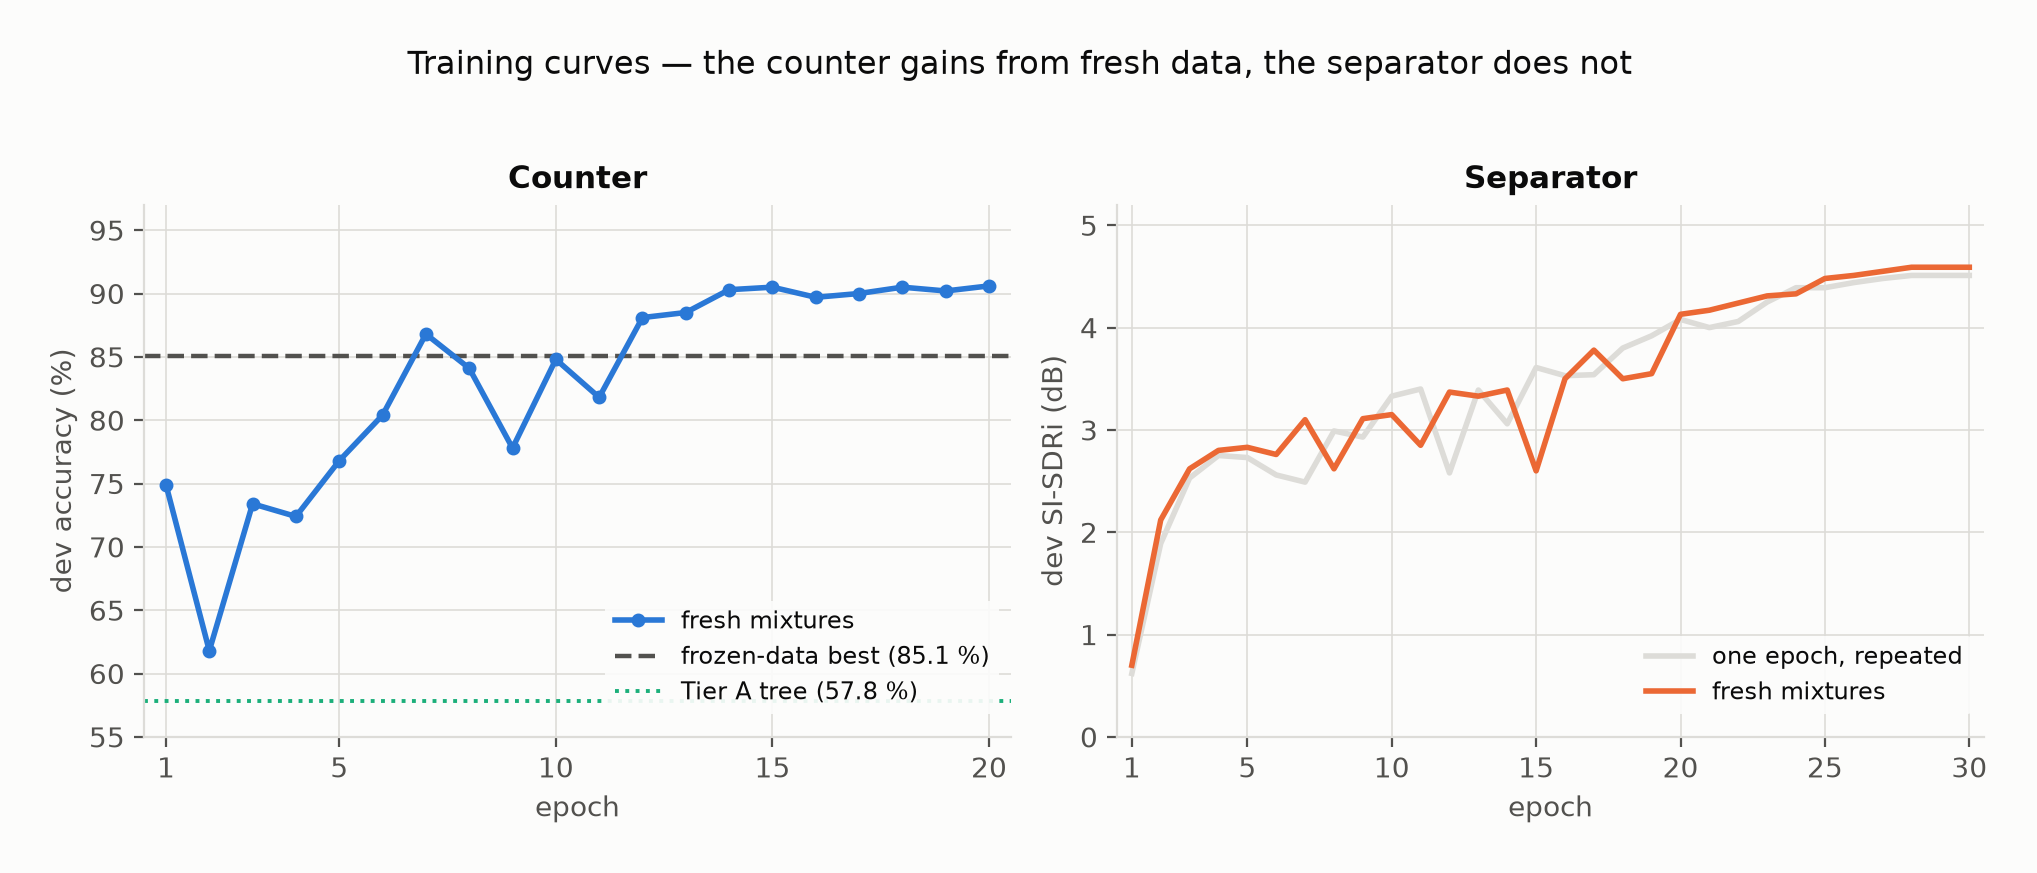
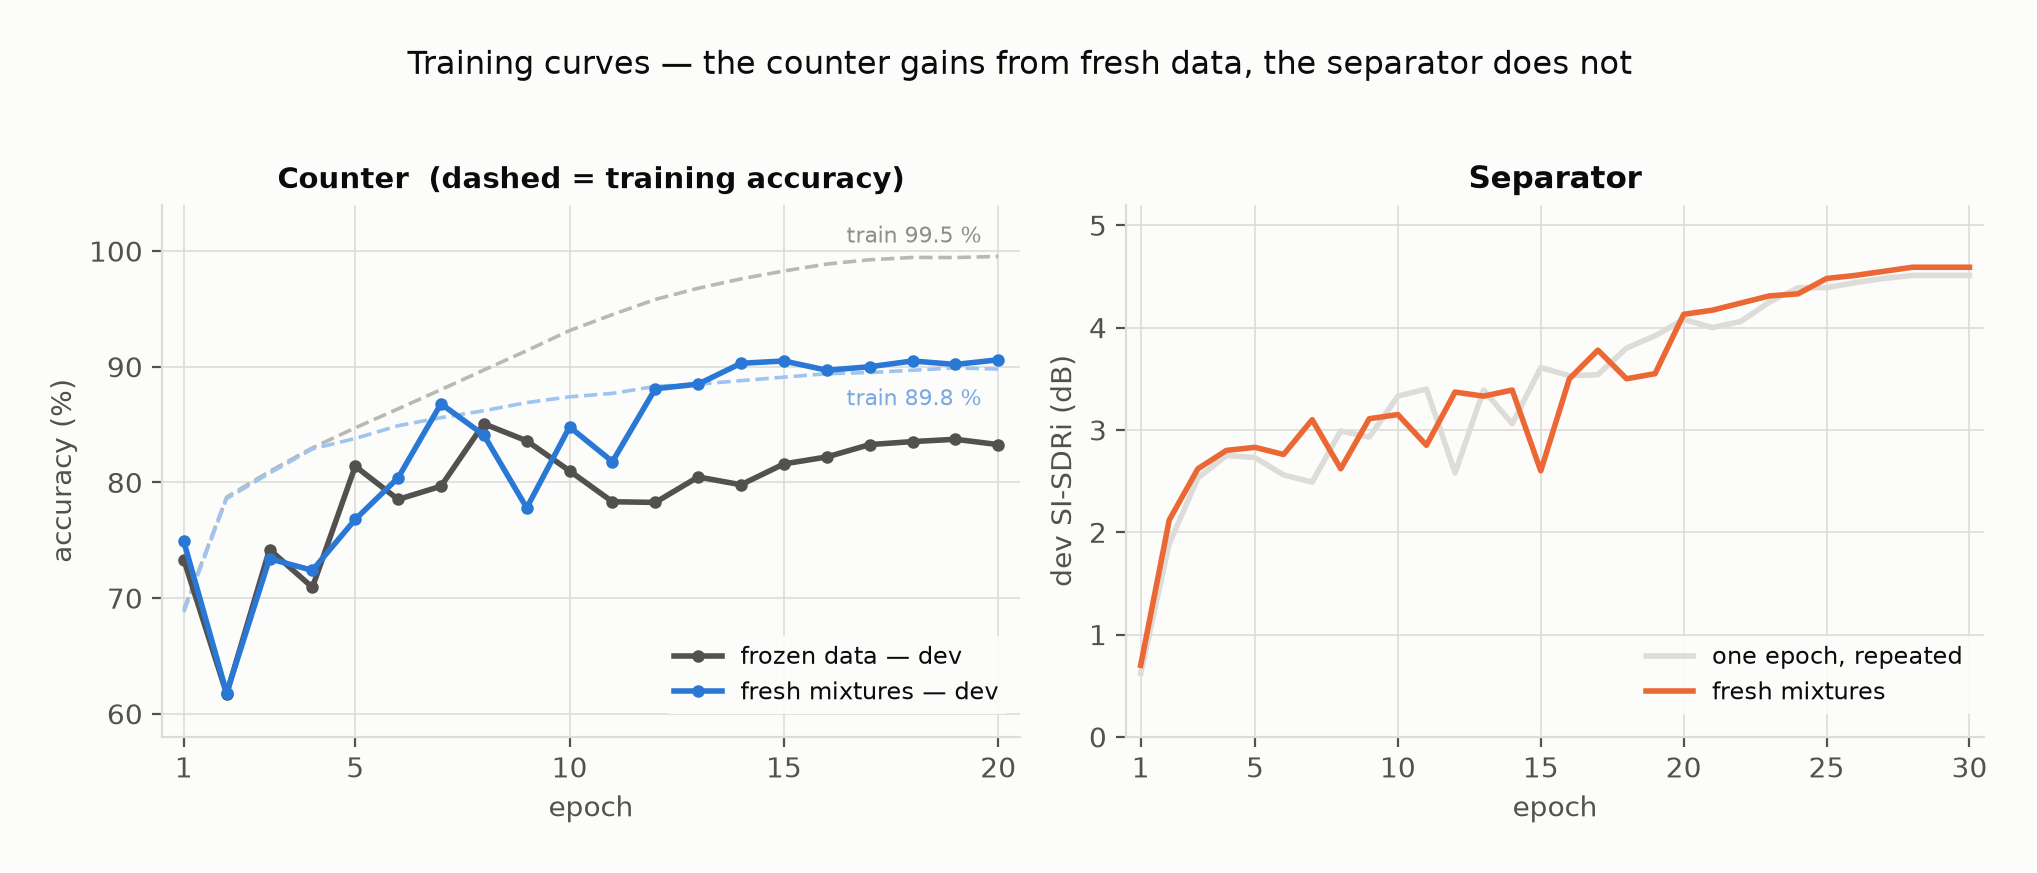
A plain-language overview, and the frozen-data curve the figures were missing
OVERVIEW.md explains the project to someone who has not seen the code: what the
task is, where the audio comes from, why there are two models rather than one,
what the numbers mean, how to run it, and the four things the report has to be
honest about. No jargon that is not defined on the spot.

Figure 5 previously showed the frozen-data counter as a single horizontal
reference line, because only epochs 1-3 and 16-20 of that run survived in the
logs. That run's train_report.json turned up, so both runs now plot in full,
training accuracy included as a dashed pair. The two training curves are
indistinguishable for eight epochs and then separate: the frozen-data run climbs
to 99.54 % while its dev score stalls near 83 %, and the fresh-mixture run's
training and dev curves converge around 90 % instead. That divergence is the
memorisation, visible rather than asserted.

RESULTS.md now carries the exact values from eval_report.json rather than the
rounded ones read off the console -- 91.07 % with Wilson [89.52, 92.41], MAE
0.0893, SI-SDRi +4.630 dB, P-SI-SNR +3.810 dB, and per-class recall to two
decimals.

diff --git a/report/make_figures.py b/report/make_figures.py
@@ -65,9 +65,16 @@ SEP_FRESH = [0.70, 2.12, 2.62, 2.80, 2.83, 2.76, 3.10, 2.62, 3.11, 3.15,
              2.85, 3.37, 3.33, 3.39, 2.60, 3.50, 3.78, 3.50, 3.55, 4.13,
              4.17, 4.24, 4.31, 4.33, 4.48, 4.51, 4.55, 4.59, 4.59, 4.59]
 
-CNT_FRESH = [74.9, 61.8, 73.4, 72.4, 76.8, 80.4, 86.8, 84.1, 77.8, 84.8,
-             81.8, 88.1, 88.5, 90.3, 90.5, 89.7, 90.0, 90.5, 90.2, 90.6]
-CNT_FROZEN_BEST = 85.1        # full curve not in the retained logs -- see report/README.md
+# Counter, both runs. Validation and training accuracy per epoch (%).
+# Frozen-data figures read from that run's train_report.json (code_version 6de9a43).
+CNT_FRESH_VAL = [74.9, 61.8, 73.4, 72.4, 76.8, 80.4, 86.8, 84.1, 77.8, 84.8,
+                 81.8, 88.1, 88.5, 90.3, 90.5, 89.7, 90.0, 90.5, 90.2, 90.6]
+CNT_FRESH_TRAIN = [68.8, 78.6, 80.8, 82.9, 83.8, 84.9, 85.6, 86.2, 86.9, 87.4,
+                   87.7, 88.3, 88.5, 88.8, 89.1, 89.4, 89.5, 89.7, 89.9, 89.8]
+CNT_FROZEN_VAL = [73.33, 61.73, 74.20, 70.93, 81.40, 78.53, 79.67, 85.07, 83.60, 81.00,
+                  78.33, 78.27, 80.47, 79.80, 81.60, 82.20, 83.27, 83.53, 83.73, 83.27]
+CNT_FROZEN_TRAIN = [68.99, 78.73, 80.95, 82.99, 84.72, 86.36, 88.02, 89.72, 91.39, 93.13,
+                    94.51, 95.82, 96.79, 97.60, 98.28, 98.88, 99.25, 99.45, 99.44, 99.54]
 
 MASK_N = [2, 3, 4, 5]
 MASK_OVERLAP = [0.151, 0.211, 0.234, 0.266]
@@ -190,16 +197,26 @@ def fig_ablation():
 def fig_training():
     fig, axes = plt.subplots(1, 2, figsize=(10.0, 3.9))
 
+    # Training accuracy is the dashed pair. The two runs are indistinguishable for eight
+    # epochs, then the frozen-data run climbs to 99.5 % while its validation stalls: that
+    # divergence IS the memorisation, and it is the reason the fix was worth making.
+    ep = range(1, 21)
     ax = axes[0]
-    ax.plot(range(1, 21), CNT_FRESH, linewidth=2, color=BLUE, marker="o", markersize=4,
-            label="fresh mixtures", zorder=3)
-    ax.axhline(CNT_FROZEN_BEST, linewidth=1.6, linestyle="--", color=INK2,
-               label=f"frozen-data best ({CNT_FROZEN_BEST:.1f} %)")
-    ax.axhline(57.8, linewidth=1.4, linestyle=":", color=AQUA, label="Tier A tree (57.8 %)")
-    ax.set_xlabel("epoch"); ax.set_ylabel("dev accuracy (%)")
-    ax.set_ylim(55, 97); ax.set_xlim(0.5, 20.5)
+    ax.plot(ep, CNT_FROZEN_TRAIN, linewidth=1.3, linestyle="--", color="#b9b8b2", zorder=2)
+    ax.plot(ep, CNT_FRESH_TRAIN, linewidth=1.3, linestyle="--", color="#9fc4f0", zorder=2)
+    ax.plot(ep, CNT_FROZEN_VAL, linewidth=2, color=INK2, marker="o", markersize=3.5,
+            label="frozen data — dev", zorder=3)
+    ax.plot(ep, CNT_FRESH_VAL, linewidth=2, color=BLUE, marker="o", markersize=3.5,
+            label="fresh mixtures — dev", zorder=4)
+    ax.annotate("train 99.5 %", (20, CNT_FROZEN_TRAIN[-1]), textcoords="offset points",
+                xytext=(-6, 5), ha="right", fontsize=8, color="#8f8e88")
+    ax.annotate("train 89.8 %", (20, CNT_FRESH_TRAIN[-1]), textcoords="offset points",
+                xytext=(-6, -13), ha="right", fontsize=8, color="#7aa9e0")
+    ax.set_xlabel("epoch"); ax.set_ylabel("accuracy (%)")
+    ax.set_ylim(58, 104); ax.set_xlim(0.5, 20.5)
     ax.set_xticks([1, 5, 10, 15, 20])
-    ax.set_title("Counter", fontsize=11, color=INK, fontweight="bold")
+    ax.set_title("Counter  (dashed = training accuracy)",
+                 fontsize=10.5, color=INK, fontweight="bold")
     ax.legend(fontsize=8.5, loc="lower right", bbox_to_anchor=(1.0, 0.02),
               facecolor=SURFACE, framealpha=0.92, frameon=True, edgecolor="none")
 

diff --git a/OVERVIEW.md b/OVERVIEW.md
@@ -1,0 +1,206 @@
+# What this project does — a guide for the team
+
+Read this first. It takes about five minutes and assumes you have not seen any of the code.
+
+---
+
+## The problem
+
+Give the system **3 seconds of audio in which several people are all talking at the same time**.
+It has to do two things:
+
+1. **Count** how many people are talking (between 1 and 5).
+2. **Separate** them — output one clean audio track per person.
+
+Everyone talks for the whole 3 seconds. Nobody takes turns. That makes it harder than it sounds,
+and it is worth knowing that this is *not* the same problem as figuring out who speaks when in a
+normal conversation (that is called diarisation, and it is a different task).
+
+---
+
+## Where the audio comes from
+
+**LibriSpeech**, a public dataset of people reading audiobooks, packaged as **LibriMix**. We take
+single-person recordings and add them together ourselves to build mixtures, so we always know the
+true answer.
+
+The one rule that matters: **the people in the test set never appear in training.** 201 speakers
+for training, 32 for tuning, 32 for the final test, with zero overlap. If a speaker appeared in
+both, the system could recognise voices instead of counting them and our scores would be fiction.
+
+We also add background noise (white/pink/brown) to 75% of clips and vary the volume slightly, so
+the system cannot cheat by listening for "how loud is it".
+
+---
+
+## The design: two models, not one
+
+This is the single most important thing to understand, and it is the reason this version exists.
+
+**The previous version used one network to do both jobs.** It did neither well. When we measured
+where the training signal actually went, the counting half was receiving **0.53%** of it and the
+separation half was taking 86% — a ratio of about **633 to 1**. The counting half never learned
+anything. It ended up answering **"1 speaker"** to almost every clip, which scores **20%** on a
+5-class problem. That is exactly what you would get by guessing.
+
+**So this version uses two separate models**, trained independently and only joined at the end:
+
+```
+                    ┌─────────────────────────┐
+  3 s of audio  ────┤ Counter  (0.49M params) ├──►  "3 people"
+        │           └─────────────────────────┘
+        │           ┌─────────────────────────┐
+        └───────────┤ Separator (5.25M params)├──►  5 audio slots + 1 noise slot
+                    └─────────────────────────┘
+                                                        │
+                            keep the 3 loudest slots ───┘  ──►  3 clean tracks
+```
+
+Each model now gets 100% of its own training signal. It costs about 5% more computing power.
+Counting went from **20% to 91%**.
+
+*(See `report/figures/fig1_architecture.png`.)*
+
+---
+
+## The results
+
+Measured once, at the end, on 1,500 mixtures the models had never seen, from 32 speakers who
+were never in training.
+
+### Counting: **91.1% correct**
+
+| | |
+|---|---|
+| Our system | **91.1%** |
+| Guessing | 20.0% |
+| The old single-network version | 20.0% |
+| A simple decision tree on hand-made measurements | 57.8% |
+
+**The best part is not the 91%.** It is that **every single mistake is off by exactly one.** When
+it is wrong, it says 3 when the answer is 4 — never 2, never 5. Out of 1,500 clips there is not
+one error bigger than a neighbour. The average error size is **0.089 speakers**, against 2.000 for
+the old version.
+
+*(See `report/figures/fig2_confusion_matrix.png`.)*
+
+### Separation: **+4.63 dB improvement**
+
+"dB improvement" means: how much cleaner each person's voice is after separation than it was in
+the mixture. Higher is better; 0 would mean we achieved nothing.
+
+| people talking | improvement |
+|---|---|
+| 1 | +7.9 dB |
+| 2 | +6.2 dB |
+| 3 | +5.1 dB |
+| 4 | +4.4 dB |
+| 5 | +3.5 dB |
+
+More people = harder = smaller improvement. That is expected and it is the right shape.
+
+**Important for the report:** published research reports 14.76 dB, and we should *not* claim we
+fell short of it. That number is for a model that is **told** there are exactly 2 speakers, trained
+**200 epochs** on **six times more audio**. Ours handles 1–5 speakers, trained 30 epochs, on a free
+Kaggle account. Three different things — say so rather than apologising for a gap.
+
+*(See `report/figures/fig3_si_sdri_per_n.png`.)*
+
+---
+
+## The most interesting thing we found
+
+Partway through, we discovered a bug in how training data was being fed to the models. Each epoch
+was supposed to generate **fresh** mixtures. Because of one wrong setting, it was silently
+re-using **the same mixtures every single epoch**.
+
+We fixed it and re-trained both models. The result was not what we expected:
+
+| | before the fix | after the fix |
+|---|---|---|
+| **Counter** | 85.1% | **90.6%**  (+5.5 points) |
+| **Separator** | +4.51 dB | +4.59 dB  (+0.08 dB — nothing) |
+
+**Same bug, same data, same computing time — and it mattered enormously for one model and not at
+all for the other.**
+
+The reason: the counter is small and the task is simple enough that it had **memorised** its fixed
+set of examples. You can see it in the training curves — its training score climbed to 99.5% while
+its real score stalled at 83%. That gap is the memorisation. After the fix the gap disappeared
+entirely.
+
+The separator is ten times bigger but its job is to reconstruct audio waveforms, which it cannot
+memorise from 12,000 examples. It was never limited by data — it is limited by training time.
+
+This is a genuinely good experimental result: one variable changed, two models, opposite outcomes,
+and a measurable explanation for why. **It is worth a section in the report.**
+
+*(See `report/figures/fig4_dataloader_ablation.png` and `fig5_training_curves.png`.)*
+
+---
+
+## How to run it
+
+Everything runs on a **free Kaggle account**. Six notebooks, in order. Full instructions with
+screenshots-level detail are in **`docs/KAGGLE_RUNBOOK.md`**.
+
+| # | notebook | needs a GPU? | time |
+|---|---|---|---|
+| 00 | build the dataset | no | 15 min |
+| 01 | check for cheating + simple baseline | no | 40 min |
+| 02 | train the counter | yes | 2.5 h |
+| 03 | train the separator | yes | 9 h |
+| 04 | final scoring | yes | 3 min |
+| 05 | **demo — listen to it working** | no | 2 min |
+
+Notebooks 00, 01 and 05 use **no GPU time at all**. Kaggle gives 30 GPU-hours a week; the whole
+project uses about 11.
+
+**Never edit the `.ipynb` files directly.** Edit `notebooks/src/*.py`, then run
+`python tools/build_notebooks.py`. There is an automatic check that refuses to run if you forget.
+
+---
+
+## What is in the repo
+
+```
+notebooks/          the six Kaggle notebooks (upload these)
+src/countsep/       the actual model and data code
+scripts/            one script per stage, called by the notebooks
+docs/               KAGGLE_RUNBOOK.md (how to run), DESIGN.md (why), DATA.md, DIAGNOSIS.md
+report/             figures for the report + RESULTS.md with every table
+tests/              run `python tools/run_all_tests.py` — 6 files, under a minute
+```
+
+---
+
+## Four things we must be honest about in the report
+
+These are not weaknesses to hide. Writing them down first is what makes the rest credible, and an
+examiner will find them anyway.
+
+**1. Everyone talks at once, the whole time.** Real conversations are mostly people taking turns.
+Our system does not handle that and was never trained for it. Say so.
+
+**2. The test set is 1,500 clips but only 32 people.** So the clips are not fully independent. We
+report a confidence interval of **89.5% to 92.4%** and should quote that rather than the bare 91.1%.
+
+**3. Half of one interpretability claim failed.** We predicted that as more people talk, the
+separator's internal "masks" would overlap more *and* become less sparse. The overlap part held.
+The sparsity part did not. We report both. A half-confirmed mechanism honestly reported is worth
+more than a fully-confirmed one that nobody checked.
+
+**4. The comparison with published results is not apples-to-apples.** See the separation section.
+
+---
+
+## One-paragraph summary, if someone asks
+
+> We built a system that listens to three seconds of overlapping speech, says how many people are
+> talking, and separates their voices. The previous version used a single network for both jobs and
+> the counting half scored at chance — we measured that it was receiving half a percent of the
+> training signal. We split it into two specialist models. Counting went from 20% to 91%, with every
+> remaining error off by only one, and separation improves each voice by about 4.6 dB. Along the way
+> we found a data-pipeline bug that had been silently re-using the same training examples every
+> epoch; fixing it gained the counter 5.5 points and the separator nothing, which told us which of
+> the two was actually short of data.

diff --git a/report/RESULTS.md b/report/RESULTS.md
@@ -5,6 +5,9 @@ notebook outputs. Nothing is simulated or estimated unless a row says so.
 
 Figures are generated by `python report/make_figures.py` into `report/figures/`.
 
+Exact values are transcribed from the runs' own `eval_report.json` (code_version `3f6f1f8`)
+and `train_report.json` (`6de9a43` for the frozen-data counter, `ae7fa71` for the final one).
+
 ---
 
 ## 1. Dataset
@@ -42,10 +45,10 @@ count label wrong. Frozen sets are 300 mixtures at each of N = 1…5.
 
 | metric | value |
 |---|---|
-| **accuracy** | **91.1 %** |
-| 95 % CI (Wilson) | **[89.5 %, 92.4 %]** ← quote this one |
-| 95 % CI (speaker bootstrap, 32 clusters) | [89.9 %, 92.2 %] |
-| MAE | **0.089** |
+| **accuracy** | **91.07 %**  (1366 / 1500) |
+| 95 % CI (Wilson) | **[89.52 %, 92.41 %]** ← quote this one |
+| 95 % CI (speaker bootstrap, 32 clusters) | [89.94 %, 92.24 %] |
+| MAE | **0.0893** |
 | off-by-one accuracy | **100.0 %** |
 | fp32 / fp16 agreement | 100.0 % |
 
@@ -58,11 +61,11 @@ report that the speaker bootstrap agreed — that agreement is the finding.
 
 | true \ pred | 1 | 2 | 3 | 4 | 5 | recall |
 |---|---|---|---|---|---|---|
-| **1** | **298** | 2 | 0 | 0 | 0 | 99 % |
-| **2** | 0 | **285** | 15 | 0 | 0 | 95 % |
-| **3** | 0 | 4 | **263** | 33 | 0 | 88 % |
-| **4** | 0 | 0 | 8 | **242** | 50 | 81 % |
-| **5** | 0 | 0 | 0 | 22 | **278** | 93 % |
+| **1** | **298** | 2 | 0 | 0 | 0 | 99.33 % |
+| **2** | 0 | **285** | 15 | 0 | 0 | 95.00 % |
+| **3** | 0 | 4 | **263** | 33 | 0 | 87.67 % |
+| **4** | 0 | 0 | 8 | **242** | 50 | 80.67 % |
+| **5** | 0 | 0 | 0 | 22 | **278** | 92.67 % |
 
 Tridiagonal: **not one prediction is wrong by more than one class.** N=4 is the weakest, which
 is the interior class with two plausible neighbours.
@@ -83,18 +86,18 @@ is the interior class with two plausible neighbours.
 
 | metric | value |
 |---|---|
-| **SI-SDRi, all clips, true-count scoring** | **+4.63 dB** |
-| SI-SDRi, count-correct clips only | +4.64 dB |
-| P-SI-SNR (the only counter-sensitive score) | +3.81 dB |
+| **SI-SDRi, all clips, true-count scoring** | **+4.630 dB** |
+| SI-SDRi, count-correct clips only | +4.643 dB |
+| P-SI-SNR (the only counter-sensitive score) | +3.810 dB |
 | degenerate references dropped | 88 |
 
 | true N | sources scored | SI-SDRi (dB) |
 |---|---|---|
-| 1 | 212 | **+7.91** |
-| 2 | 600 | +6.15 |
-| 3 | 900 | +5.13 |
-| 4 | 1,200 | +4.36 |
-| 5 | 1,500 | **+3.47** |
+| 1 | 212 | **+7.906** |
+| 2 | 600 | +6.152 |
+| 3 | 900 | +5.134 |
+| 4 | 1,200 | +4.363 |
+| 5 | 1,500 | **+3.468** |
 
 **Do not compare +6.15 dB at N=2 with published Conv-TasNet's +14.76 dB.** That model is
 *told* there are exactly two speakers, trains 200 epochs, and uses train-clean-360 (~360 h)
@@ -117,6 +120,7 @@ One variable changed: whether `set_epoch()` reached the dataloader workers. With
 | **counter, dev accuracy** | 85.1 % | **90.6 %** | **+5.5 points** |
 | counter, train − val gap | +16.2 pp | **−0.8 pp** | overfitting removed |
 | counter, best epoch | 8 of 20 | 20 of 20 | still improving |
+| counter, final training accuracy | 99.54 % | 89.8 % | memorisation gone |
 | **separator, dev SI-SDRi** | +4.51 dB | +4.59 dB | **+0.08 dB (noise)** |
 | separator, final train loss | −6.343 | −6.243 | fits training data *worse* |
 
